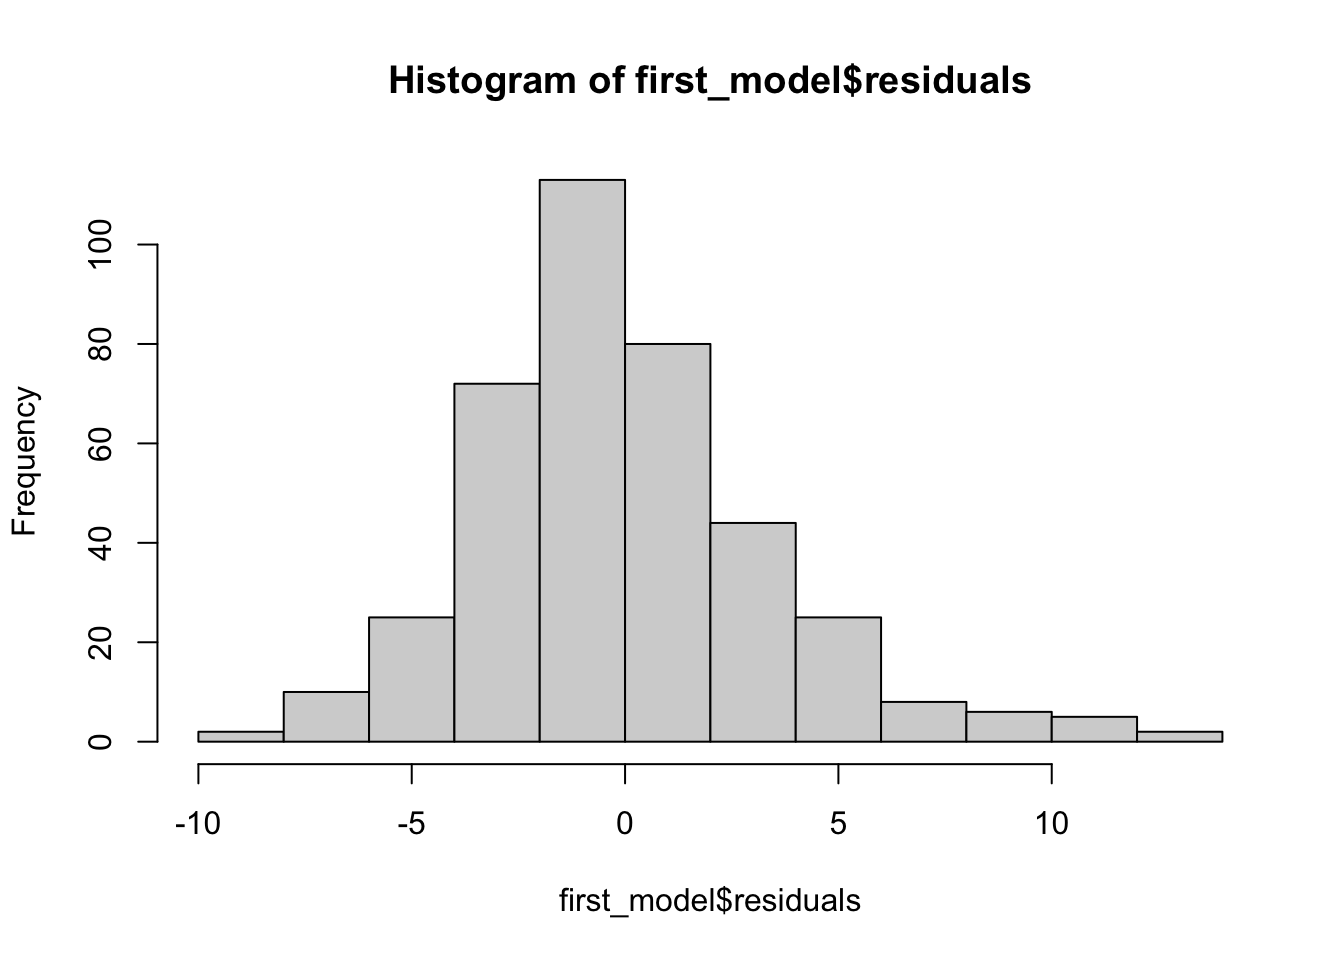
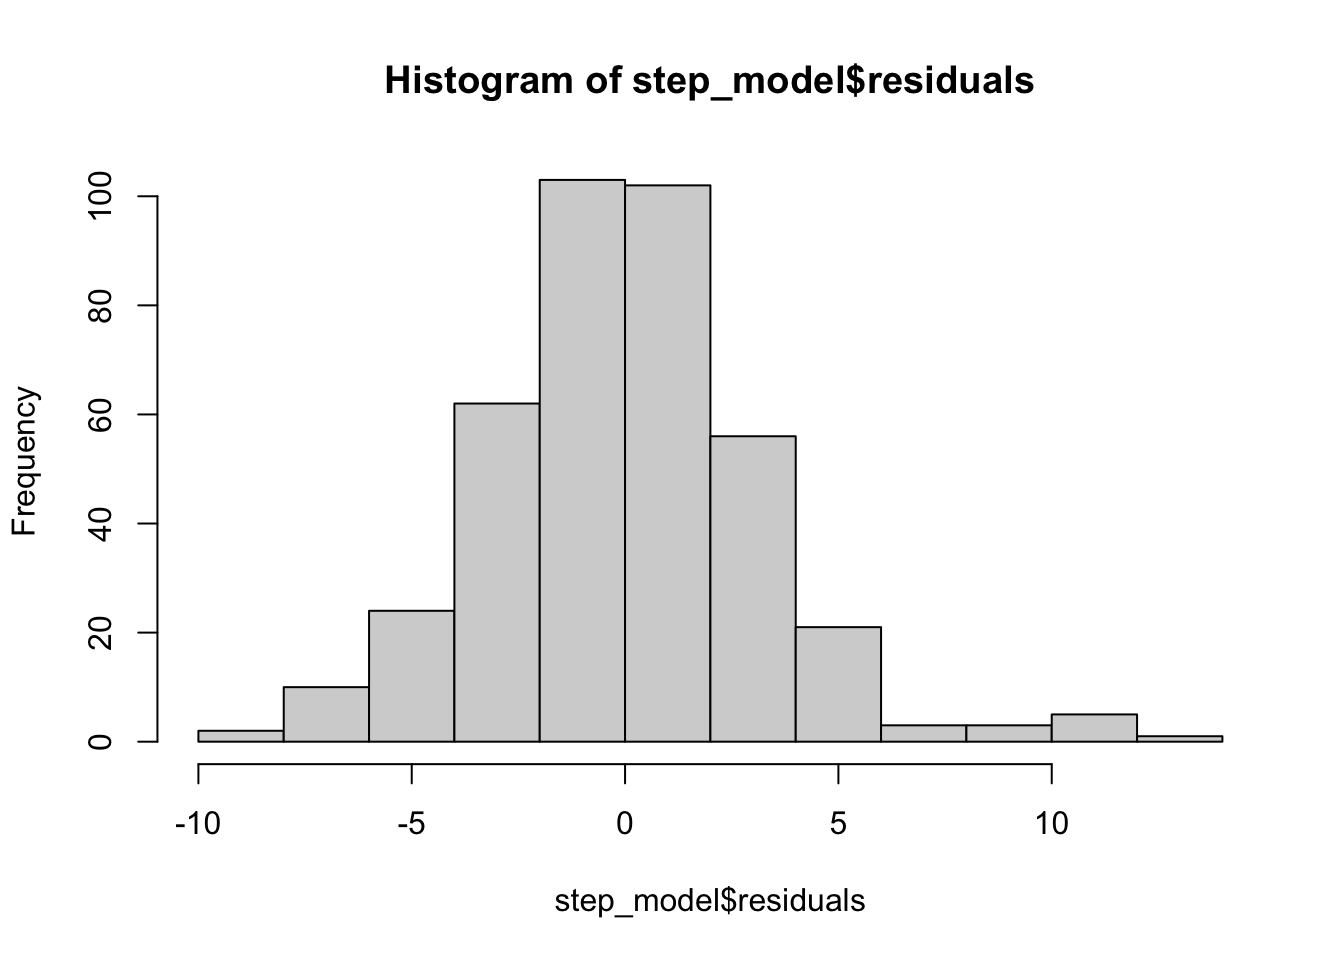
stepwise

diff --git a/Fuel_Consumption.html b/Fuel_Consumption.html
@@ -113,7 +113,8 @@ pre > code.sourceCode > span > a:first-child::before { text-decoration: underlin
 <span id="cb1-2"><a href="#cb1-2" aria-hidden="true" tabindex="-1"></a><span class="fu">library</span>(car)</span>
 <span id="cb1-3"><a href="#cb1-3" aria-hidden="true" tabindex="-1"></a><span class="fu">library</span>(ucimlrepo)</span>
 <span id="cb1-4"><a href="#cb1-4" aria-hidden="true" tabindex="-1"></a><span class="fu">library</span>(magrittr)</span>
-<span id="cb1-5"><a href="#cb1-5" aria-hidden="true" tabindex="-1"></a><span class="fu">library</span>(fastDummies)</span></code><button title="Copy to Clipboard" class="code-copy-button"><i class="bi"></i></button></pre></div>
+<span id="cb1-5"><a href="#cb1-5" aria-hidden="true" tabindex="-1"></a><span class="fu">library</span>(fastDummies)</span>
+<span id="cb1-6"><a href="#cb1-6" aria-hidden="true" tabindex="-1"></a><span class="fu">library</span>(olsrr)</span></code><button title="Copy to Clipboard" class="code-copy-button"><i class="bi"></i></button></pre></div>
 </div>
 </section>
 <section id="dataset" class="level4">
@@ -474,13 +475,12 @@ pre > code.sourceCode > span > a:first-child::before { text-decoration: underlin
 <p>De acordo com a matriz acima as variaveis horsepower, weight, displacement e cylinders_up_to_four apresentam niveis de colinearidade excessivos entre si, por isso ferei a remoçao de algumas delas, tomando os seguintes critérios: - displacement possui os maiores niveis de colinearidade com as outras variaveis, por isso será removida - weight apresenta colinearidade com horsepower e discplacemente por isso tambem será removida, levando em consideracao que ao remove-la nao restará nenhuma relacao de colineridade entre as ariaveis independentes</p>
 <div class="cell">
 <div class="sourceCode cell-code" id="cb23"><pre class="sourceCode r code-with-copy"><code class="sourceCode r"><span id="cb23-1"><a href="#cb23-1" aria-hidden="true" tabindex="-1"></a>auto_mpg <span class="ot">&lt;-</span> auto_mpg <span class="sc">%&gt;%</span> </span>
-<span id="cb23-2"><a href="#cb23-2" aria-hidden="true" tabindex="-1"></a>  dplyr<span class="sc">::</span><span class="fu">select</span>(<span class="sc">-</span>displacement,</span>
-<span id="cb23-3"><a href="#cb23-3" aria-hidden="true" tabindex="-1"></a>                <span class="sc">-</span>weight)</span>
-<span id="cb23-4"><a href="#cb23-4" aria-hidden="true" tabindex="-1"></a></span>
-<span id="cb23-5"><a href="#cb23-5" aria-hidden="true" tabindex="-1"></a>cor_matrix <span class="ot">&lt;-</span> <span class="fu">cor</span>(auto_mpg)</span>
-<span id="cb23-6"><a href="#cb23-6" aria-hidden="true" tabindex="-1"></a></span>
-<span id="cb23-7"><a href="#cb23-7" aria-hidden="true" tabindex="-1"></a>corrplot<span class="sc">::</span><span class="fu">corrplot</span>(cor_matrix, <span class="at">method =</span> <span class="st">"color"</span>, <span class="at">type =</span> <span class="st">"upper"</span>, <span class="at">tl.col =</span> <span class="st">"black"</span>, <span class="at">tl.srt =</span> <span class="dv">45</span>, </span>
-<span id="cb23-8"><a href="#cb23-8" aria-hidden="true" tabindex="-1"></a>         <span class="at">tl.cex =</span> <span class="fl">0.8</span>, <span class="at">addCoef.col =</span> <span class="st">"black"</span>, <span class="at">number.cex =</span> <span class="fl">0.7</span>, <span class="at">mar =</span> <span class="fu">c</span>(<span class="dv">0</span>,<span class="dv">0</span>,<span class="dv">2</span>,<span class="dv">0</span>)) </span></code><button title="Copy to Clipboard" class="code-copy-button"><i class="bi"></i></button></pre></div>
+<span id="cb23-2"><a href="#cb23-2" aria-hidden="true" tabindex="-1"></a>  dplyr<span class="sc">::</span><span class="fu">select</span>(<span class="sc">-</span>displacement)</span>
+<span id="cb23-3"><a href="#cb23-3" aria-hidden="true" tabindex="-1"></a></span>
+<span id="cb23-4"><a href="#cb23-4" aria-hidden="true" tabindex="-1"></a>cor_matrix <span class="ot">&lt;-</span> <span class="fu">cor</span>(auto_mpg)</span>
+<span id="cb23-5"><a href="#cb23-5" aria-hidden="true" tabindex="-1"></a></span>
+<span id="cb23-6"><a href="#cb23-6" aria-hidden="true" tabindex="-1"></a>corrplot<span class="sc">::</span><span class="fu">corrplot</span>(cor_matrix, <span class="at">method =</span> <span class="st">"color"</span>, <span class="at">type =</span> <span class="st">"upper"</span>, <span class="at">tl.col =</span> <span class="st">"black"</span>, <span class="at">tl.srt =</span> <span class="dv">45</span>, </span>
+<span id="cb23-7"><a href="#cb23-7" aria-hidden="true" tabindex="-1"></a>         <span class="at">tl.cex =</span> <span class="fl">0.8</span>, <span class="at">addCoef.col =</span> <span class="st">"black"</span>, <span class="at">number.cex =</span> <span class="fl">0.7</span>, <span class="at">mar =</span> <span class="fu">c</span>(<span class="dv">0</span>,<span class="dv">0</span>,<span class="dv">2</span>,<span class="dv">0</span>)) </span></code><button title="Copy to Clipboard" class="code-copy-button"><i class="bi"></i></button></pre></div>
 <div class="cell-output-display">
 <div>
 <figure class="figure">
@@ -494,7 +494,7 @@ pre > code.sourceCode > span > a:first-child::before { text-decoration: underlin
 </section>
 <section id="model" class="level2">
 <h2 class="anchored" data-anchor-id="model">Model</h2>
-<p>A primeira tentativa de criacao do modelo utiliza uma abordagem simples e direta. Os resultados se mostraram bons, de certa forma; - Testes F e t satisfatorios - R2 e adjusted R2 por volta de 0.8</p>
+<p>A primeira tentativa de criacao do modelo utiliza uma abordagem simples e direta. Os resultados se mostraram bons, de certa forma: - Testes F e t satisfatorios (exceto para horsepower e acceleration) - R2 e adjusted R2 por volta de 0.8</p>
 <div class="cell">
 <div class="sourceCode cell-code" id="cb24"><pre class="sourceCode r code-with-copy"><code class="sourceCode r"><span id="cb24-1"><a href="#cb24-1" aria-hidden="true" tabindex="-1"></a>first_model <span class="ot">&lt;-</span> <span class="fu">lm</span>(mpg <span class="sc">~</span> ., <span class="at">data =</span> auto_mpg)</span>
 <span id="cb24-2"><a href="#cb24-2" aria-hidden="true" tabindex="-1"></a><span class="fu">summary</span>(first_model)</span></code><button title="Copy to Clipboard" class="code-copy-button"><i class="bi"></i></button></pre></div>
@@ -505,64 +505,101 @@ lm(formula = mpg ~ ., data = auto_mpg)
 
 Residuals:
     Min      1Q  Median      3Q     Max 
--9.2637 -2.2703 -0.5045  1.7597 13.8825 
+-9.4524 -1.9497 -0.0326  1.8243 13.6545 
 
 Coefficients:
-                      Estimate Std. Error t value Pr(&gt;|t|)    
-(Intercept)          -14.44054    4.84258  -2.982  0.00305 ** 
-horsepower            -0.09077    0.00886 -10.245  &lt; 2e-16 ***
-acceleration          -0.36712    0.09198  -3.991 7.87e-05 ***
-model_year             0.68568    0.05381  12.743  &lt; 2e-16 ***
-origin_US             -2.39349    0.47280  -5.062 6.42e-07 ***
-cylinders_up_to_four   4.77481    0.56220   8.493 4.41e-16 ***
+                       Estimate Std. Error t value Pr(&gt;|t|)    
+(Intercept)          -1.831e+01  4.507e+00  -4.061 5.92e-05 ***
+horsepower           -9.441e-03  1.296e-02  -0.728 0.466888    
+weight               -4.612e-03  5.694e-04  -8.100 7.33e-15 ***
+acceleration          4.581e-04  9.647e-02   0.005 0.996214    
+model_year            7.415e-01  5.028e-02  14.748  &lt; 2e-16 ***
+origin_US            -1.680e+00  4.464e-01  -3.763 0.000194 ***
+cylinders_up_to_four  2.268e+00  6.054e-01   3.746 0.000207 ***
 ---
 Signif. codes:  0 '***' 0.001 '**' 0.01 '*' 0.05 '.' 0.1 ' ' 1
 
-Residual standard error: 3.548 on 386 degrees of freedom
-Multiple R-squared:  0.796, Adjusted R-squared:  0.7933 
-F-statistic: 301.2 on 5 and 386 DF,  p-value: &lt; 2.2e-16</code></pre>
+Residual standard error: 3.284 on 385 degrees of freedom
+Multiple R-squared:  0.8257,    Adjusted R-squared:  0.823 
+F-statistic:   304 on 6 and 385 DF,  p-value: &lt; 2.2e-16</code></pre>
 </div>
 </div>
-<p>Checando se o metodo stepwise de selecao de variaveis será capaz de fornecer um modelo melhor</p>
+<p>Checando se o metodo stepwise de selecao de variaveis será capaz de fornecer um modelo melhor. O metodo de elecao de variaveis apresentpou um modelo com metricas de eficiencia semelhantes ao primeiro modelo, utilizando menos variavies, ou seja, de menor complexidade mas mais assertivo.</p>
 <div class="cell">
 <div class="sourceCode cell-code" id="cb26"><pre class="sourceCode r code-with-copy"><code class="sourceCode r"><span id="cb26-1"><a href="#cb26-1" aria-hidden="true" tabindex="-1"></a>step_model <span class="ot">&lt;-</span> <span class="fu">step</span>(first_model, <span class="at">direction =</span> <span class="st">'both'</span>)</span></code><button title="Copy to Clipboard" class="code-copy-button"><i class="bi"></i></button></pre></div>
 <div class="cell-output cell-output-stdout">
-<pre><code>Start:  AIC=998.83
-mpg ~ horsepower + acceleration + model_year + origin_US + cylinders_up_to_four
+<pre><code>Start:  AIC=939.14
+mpg ~ horsepower + weight + acceleration + model_year + origin_US + 
+    cylinders_up_to_four
 
                        Df Sum of Sq    RSS     AIC
-&lt;none&gt;                              4859.5  998.83
-- acceleration          1    200.54 5060.0 1012.68
-- origin_US             1    322.63 5182.1 1022.03
-- cylinders_up_to_four  1    908.09 5767.6 1063.99
-- horsepower            1   1321.47 6180.9 1091.12
-- model_year            1   2044.15 6903.6 1134.47</code></pre>
+- acceleration          1      0.00 4151.9  937.14
+- horsepower            1      5.72 4157.6  937.68
+&lt;none&gt;                              4151.9  939.14
+- cylinders_up_to_four  1    151.36 4303.3  951.18
+- origin_US             1    152.70 4304.6  951.30
+- weight                1    707.56 4859.5  998.83
+- model_year            1   2345.57 6497.5 1112.70
+
+Step:  AIC=937.14
+mpg ~ horsepower + weight + model_year + origin_US + cylinders_up_to_four
+
+                       Df Sum of Sq    RSS     AIC
+- horsepower            1     11.81 4163.7  936.26
+&lt;none&gt;                              4151.9  937.14
++ acceleration          1      0.00 4151.9  939.14
+- cylinders_up_to_four  1    153.05 4304.9  949.33
+- origin_US             1    153.30 4305.2  949.36
+- weight                1    908.10 5060.0 1012.68
+- model_year            1   2354.96 6506.9 1111.27
+
+Step:  AIC=936.26
+mpg ~ weight + model_year + origin_US + cylinders_up_to_four
+
+                       Df Sum of Sq    RSS     AIC
+&lt;none&gt;                              4163.7  936.26
++ horsepower            1     11.81 4151.9  937.14
++ acceleration          1      6.09 4157.6  937.68
+- cylinders_up_to_four  1    148.73 4312.4  948.01
+- origin_US             1    150.13 4313.8  948.14
+- weight                1   2141.14 6304.8 1096.90
+- model_year            1   2725.85 6889.5 1131.67</code></pre>
 </div>
 <div class="sourceCode cell-code" id="cb28"><pre class="sourceCode r code-with-copy"><code class="sourceCode r"><span id="cb28-1"><a href="#cb28-1" aria-hidden="true" tabindex="-1"></a><span class="fu">summary</span>(step_model)</span></code><button title="Copy to Clipboard" class="code-copy-button"><i class="bi"></i></button></pre></div>
 <div class="cell-output cell-output-stdout">
 <pre><code>
 Call:
-lm(formula = mpg ~ horsepower + acceleration + model_year + origin_US + 
-    cylinders_up_to_four, data = auto_mpg)
+lm(formula = mpg ~ weight + model_year + origin_US + cylinders_up_to_four, 
+    data = auto_mpg)
 
 Residuals:
     Min      1Q  Median      3Q     Max 
--9.2637 -2.2703 -0.5045  1.7597 13.8825 
+-9.5568 -1.9685 -0.0568  1.8033 13.6683 
 
 Coefficients:
-                      Estimate Std. Error t value Pr(&gt;|t|)    
-(Intercept)          -14.44054    4.84258  -2.982  0.00305 ** 
-horsepower            -0.09077    0.00886 -10.245  &lt; 2e-16 ***
-acceleration          -0.36712    0.09198  -3.991 7.87e-05 ***
-model_year             0.68568    0.05381  12.743  &lt; 2e-16 ***
-origin_US             -2.39349    0.47280  -5.062 6.42e-07 ***
-cylinders_up_to_four   4.77481    0.56220   8.493 4.41e-16 ***
+                       Estimate Std. Error t value Pr(&gt;|t|)    
+(Intercept)          -1.941e+01  3.942e+00  -4.925 1.25e-06 ***
+weight               -4.984e-03  3.533e-04 -14.107  &lt; 2e-16 ***
+model_year            7.579e-01  4.761e-02  15.917  &lt; 2e-16 ***
+origin_US            -1.661e+00  4.447e-01  -3.736 0.000216 ***
+cylinders_up_to_four  2.233e+00  6.005e-01   3.718 0.000230 ***
 ---
 Signif. codes:  0 '***' 0.001 '**' 0.01 '*' 0.05 '.' 0.1 ' ' 1
 
-Residual standard error: 3.548 on 386 degrees of freedom
-Multiple R-squared:  0.796, Adjusted R-squared:  0.7933 
-F-statistic: 301.2 on 5 and 386 DF,  p-value: &lt; 2.2e-16</code></pre>
+Residual standard error: 3.28 on 387 degrees of freedom
+Multiple R-squared:  0.8252,    Adjusted R-squared:  0.8234 
+F-statistic: 456.7 on 4 and 387 DF,  p-value: &lt; 2.2e-16</code></pre>
+</div>
+</div>
+<p>A comparacao da eficiencia dos modelos tambem pode ser feita atraves do calulo da metrica AIC e os resultos sugerem ligeira superioridade do primeiro modelo. Como a diferença é bem pequena continuarei a utilizar o modelo stepwise como principal</p>
+<div class="cell">
+<div class="sourceCode cell-code" id="cb30"><pre class="sourceCode r code-with-copy"><code class="sourceCode r"><span id="cb30-1"><a href="#cb30-1" aria-hidden="true" tabindex="-1"></a><span class="fu">AIC</span>(first_model)</span></code><button title="Copy to Clipboard" class="code-copy-button"><i class="bi"></i></button></pre></div>
+<div class="cell-output cell-output-stdout">
+<pre><code>[1] 2053.591</code></pre>
+</div>
+<div class="sourceCode cell-code" id="cb32"><pre class="sourceCode r code-with-copy"><code class="sourceCode r"><span id="cb32-1"><a href="#cb32-1" aria-hidden="true" tabindex="-1"></a><span class="fu">AIC</span>(step_model)</span></code><button title="Copy to Clipboard" class="code-copy-button"><i class="bi"></i></button></pre></div>
+<div class="cell-output cell-output-stdout">
+<pre><code>[1] 2050.704</code></pre>
 </div>
 </div>
 <section id="redisuals" class="level3">
@@ -571,7 +608,7 @@ F-statistic: 301.2 on 5 and 386 DF,  p-value: &lt; 2.2e-16</code></pre>
 <h4 class="anchored" data-anchor-id="normalidade-de-residuos">Normalidade de residuos</h4>
 <p>Os gráficos abaixo apontam para uma distribuiçao normal dos residuos, o que satisfaz uma das condiçoes conceituais do modelo</p>
 <div class="cell">
-<div class="sourceCode cell-code" id="cb30"><pre class="sourceCode r code-with-copy"><code class="sourceCode r"><span id="cb30-1"><a href="#cb30-1" aria-hidden="true" tabindex="-1"></a><span class="fu">hist</span>(first_model<span class="sc">$</span>residuals)</span></code><button title="Copy to Clipboard" class="code-copy-button"><i class="bi"></i></button></pre></div>
+<div class="sourceCode cell-code" id="cb34"><pre class="sourceCode r code-with-copy"><code class="sourceCode r"><span id="cb34-1"><a href="#cb34-1" aria-hidden="true" tabindex="-1"></a><span class="fu">hist</span>(step_model<span class="sc">$</span>residuals)</span></code><button title="Copy to Clipboard" class="code-copy-button"><i class="bi"></i></button></pre></div>
 <div class="cell-output-display">
 <div>
 <figure class="figure">
@@ -579,8 +616,8 @@ F-statistic: 301.2 on 5 and 386 DF,  p-value: &lt; 2.2e-16</code></pre>
 </figure>
 </div>
 </div>
-<div class="sourceCode cell-code" id="cb31"><pre class="sourceCode r code-with-copy"><code class="sourceCode r"><span id="cb31-1"><a href="#cb31-1" aria-hidden="true" tabindex="-1"></a><span class="fu">qqnorm</span>(first_model<span class="sc">$</span>residuals)</span>
-<span id="cb31-2"><a href="#cb31-2" aria-hidden="true" tabindex="-1"></a><span class="fu">qqline</span>(first_model<span class="sc">$</span>residuals)</span></code><button title="Copy to Clipboard" class="code-copy-button"><i class="bi"></i></button></pre></div>
+<div class="sourceCode cell-code" id="cb35"><pre class="sourceCode r code-with-copy"><code class="sourceCode r"><span id="cb35-1"><a href="#cb35-1" aria-hidden="true" tabindex="-1"></a><span class="fu">qqnorm</span>(step_model<span class="sc">$</span>residuals)</span>
+<span id="cb35-2"><a href="#cb35-2" aria-hidden="true" tabindex="-1"></a><span class="fu">qqline</span>(step_model<span class="sc">$</span>residuals)</span></code><button title="Copy to Clipboard" class="code-copy-button"><i class="bi"></i></button></pre></div>
 <div class="cell-output-display">
 <div>
 <figure class="figure">
@@ -589,15 +626,15 @@ F-statistic: 301.2 on 5 and 386 DF,  p-value: &lt; 2.2e-16</code></pre>
 </div>
 </div>
 </div>
-<p>Abaixo apliquei o Shapiro test para confirmar a normalidade residual e ela foi atestada</p>
+<p>Abaixo apliquei o Shapiro test para confirmar a normalidade residual e ela nao foi atestada</p>
 <div class="cell">
-<div class="sourceCode cell-code" id="cb32"><pre class="sourceCode r code-with-copy"><code class="sourceCode r"><span id="cb32-1"><a href="#cb32-1" aria-hidden="true" tabindex="-1"></a><span class="fu">shapiro.test</span>(first_model<span class="sc">$</span>residuals)</span></code><button title="Copy to Clipboard" class="code-copy-button"><i class="bi"></i></button></pre></div>
+<div class="sourceCode cell-code" id="cb36"><pre class="sourceCode r code-with-copy"><code class="sourceCode r"><span id="cb36-1"><a href="#cb36-1" aria-hidden="true" tabindex="-1"></a><span class="fu">shapiro.test</span>(step_model<span class="sc">$</span>residuals)</span></code><button title="Copy to Clipboard" class="code-copy-button"><i class="bi"></i></button></pre></div>
 <div class="cell-output cell-output-stdout">
 <pre><code>
     Shapiro-Wilk normality test
 
-data:  first_model$residuals
-W = 0.96671, p-value = 8.775e-08</code></pre>
+data:  step_model$residuals
+W = 0.96785, p-value = 1.371e-07</code></pre>
 </div>
 </div>
 </section>
@@ -605,18 +642,18 @@ W = 0.96671, p-value = 8.775e-08</code></pre>
 <h4 class="anchored" data-anchor-id="homocedasticidade">Homocedasticidade</h4>
 <p>O gráfico de residuos abaixo aponta a media zero para a variancia, o que é bom, mas ainda tenho duvidas em relacao a existencia de padrão na variancia dos residuos</p>
 <div class="cell">
-<div class="sourceCode cell-code" id="cb34"><pre class="sourceCode r code-with-copy"><code class="sourceCode r"><span id="cb34-1"><a href="#cb34-1" aria-hidden="true" tabindex="-1"></a>olsrr<span class="sc">::</span><span class="fu">ols_plot_resid_fit</span>(first_model)</span></code><button title="Copy to Clipboard" class="code-copy-button"><i class="bi"></i></button></pre></div>
+<div class="sourceCode cell-code" id="cb38"><pre class="sourceCode r code-with-copy"><code class="sourceCode r"><span id="cb38-1"><a href="#cb38-1" aria-hidden="true" tabindex="-1"></a>olsrr<span class="sc">::</span><span class="fu">ols_plot_resid_fit</span>(step_model)</span></code><button title="Copy to Clipboard" class="code-copy-button"><i class="bi"></i></button></pre></div>
 <div class="cell-output-display">
 <div>
 <figure class="figure">
-<p><img src="Fuel_Consumption_files/figure-html/unnamed-chunk-7-1.png" class="img-fluid figure-img" width="672"></p>
+<p><img src="Fuel_Consumption_files/figure-html/unnamed-chunk-8-1.png" class="img-fluid figure-img" width="672"></p>
 </figure>
 </div>
 </div>
 </div>
 <p>Aplicando o testde e Breusch-Pagan é possivel afirmar que a variancia nao é constante, portante o modelo não foi atestado</p>
 <div class="cell">
-<div class="sourceCode cell-code" id="cb35"><pre class="sourceCode r code-with-copy"><code class="sourceCode r"><span id="cb35-1"><a href="#cb35-1" aria-hidden="true" tabindex="-1"></a>olsrr<span class="sc">::</span><span class="fu">ols_test_breusch_pagan</span>(first_model)</span></code><button title="Copy to Clipboard" class="code-copy-button"><i class="bi"></i></button></pre></div>
+<div class="sourceCode cell-code" id="cb39"><pre class="sourceCode r code-with-copy"><code class="sourceCode r"><span id="cb39-1"><a href="#cb39-1" aria-hidden="true" tabindex="-1"></a>olsrr<span class="sc">::</span><span class="fu">ols_test_breusch_pagan</span>(step_model)</span></code><button title="Copy to Clipboard" class="code-copy-button"><i class="bi"></i></button></pre></div>
 <div class="cell-output cell-output-stdout">
 <pre><code>
  Breusch Pagan Test for Heteroskedasticity
@@ -632,8 +669,8 @@ W = 0.96671, p-value = 8.775e-08</code></pre>
          Test Summary           
  -------------------------------
  DF            =    1 
- Chi2          =    28.94256 
- Prob &gt; Chi2   =    7.455653e-08 </code></pre>
+ Chi2          =    43.92311 
+ Prob &gt; Chi2   =    3.415323e-11 </code></pre>
 </div>
 </div>
 </section>
@@ -641,14 +678,13 @@ W = 0.96671, p-value = 8.775e-08</code></pre>
 <h4 class="anchored" data-anchor-id="multicolinearity">Multicolinearity</h4>
 <p>Para atestar a existencia de multicolinearidade no modelo utilizarei a analise VIF</p>
 <div class="cell">
-<div class="sourceCode cell-code" id="cb37"><pre class="sourceCode r code-with-copy"><code class="sourceCode r"><span id="cb37-1"><a href="#cb37-1" aria-hidden="true" tabindex="-1"></a>olsrr<span class="sc">::</span><span class="fu">ols_vif_tol</span>(first_model)</span></code><button title="Copy to Clipboard" class="code-copy-button"><i class="bi"></i></button></pre></div>
+<div class="sourceCode cell-code" id="cb41"><pre class="sourceCode r code-with-copy"><code class="sourceCode r"><span id="cb41-1"><a href="#cb41-1" aria-hidden="true" tabindex="-1"></a>olsrr<span class="sc">::</span><span class="fu">ols_vif_tol</span>(step_model)</span></code><button title="Copy to Clipboard" class="code-copy-button"><i class="bi"></i></button></pre></div>
 <div class="cell-output cell-output-stdout">
 <pre><code>             Variables Tolerance      VIF
-1           horsepower 0.2768578 3.611963
-2         acceleration 0.4999788 2.000085
-3           model_year 0.8194251 1.220368
-4            origin_US 0.6129769 1.631383
-5 cylinders_up_to_four 0.4069562 2.457267</code></pre>
+1               weight 0.3055218 3.273089
+2           model_year 0.8944519 1.118003
+3            origin_US 0.5922528 1.688468
+4 cylinders_up_to_four 0.3048856 3.279919</code></pre>
 </div>
 </div>
 </section>
